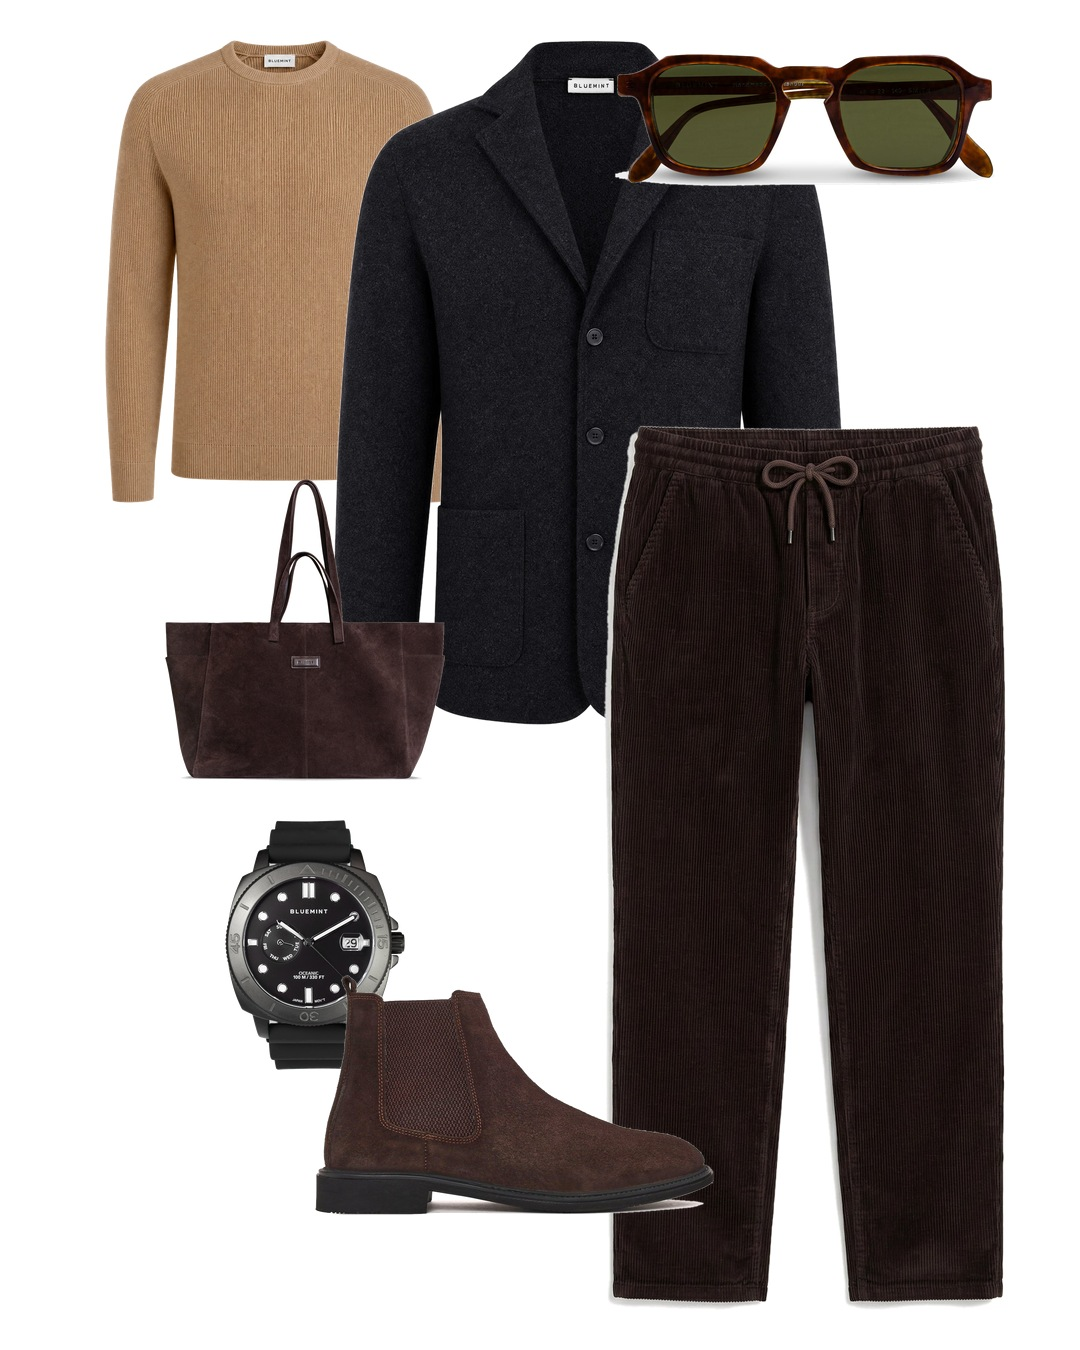
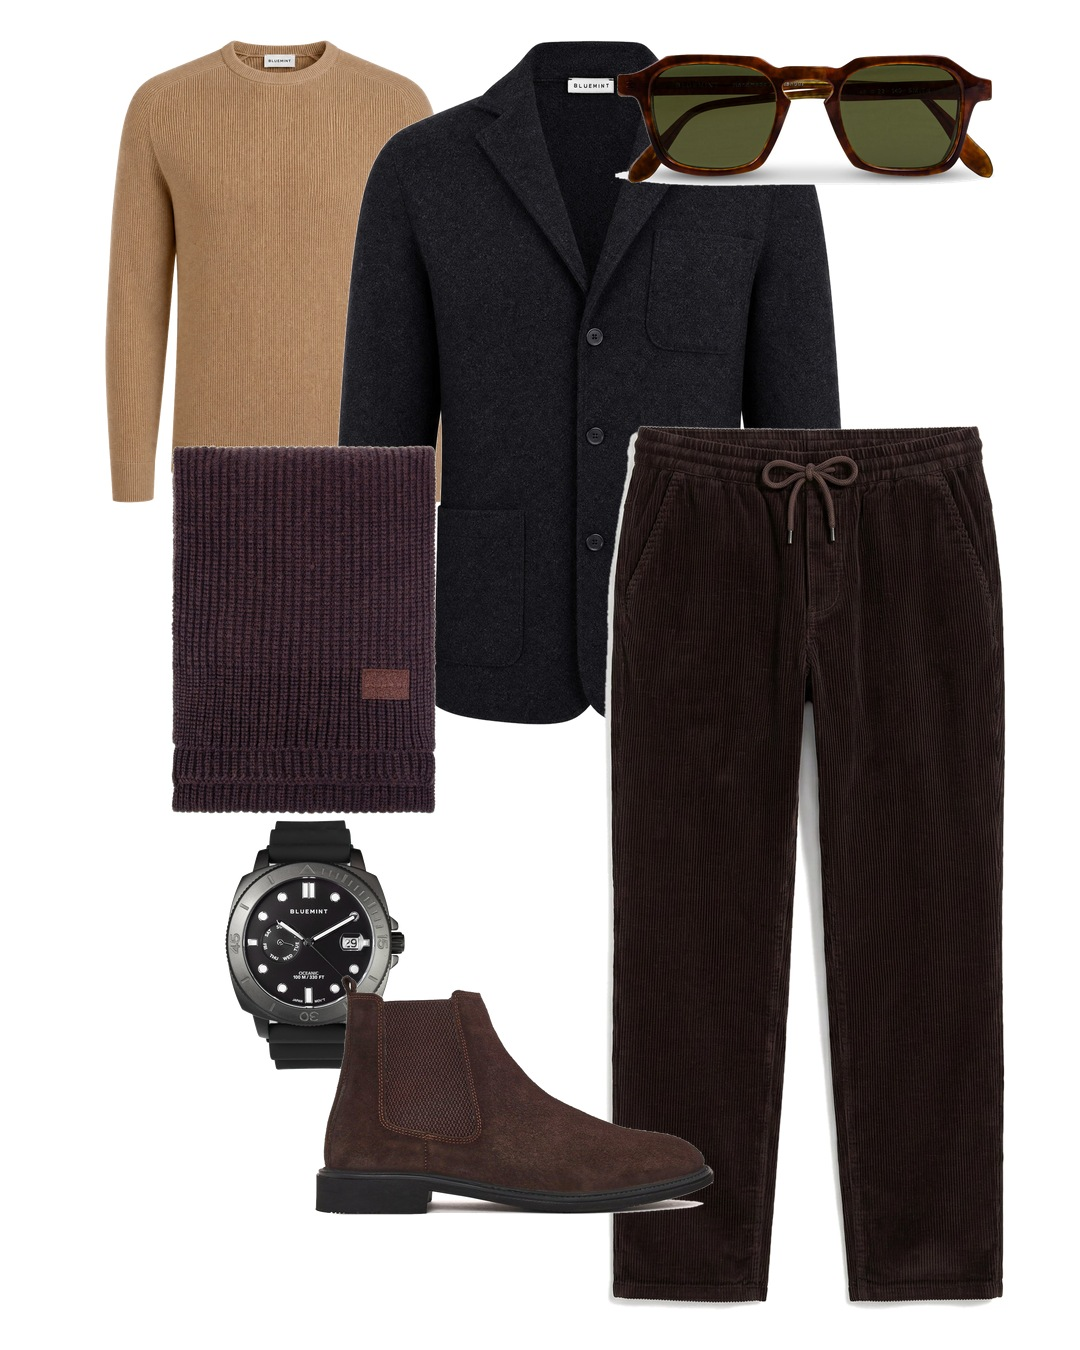
Men's look: swap tote for scarf
Claude-Session: https://claude.ai/code/session_017rYiNWXHBCHyhRSoaNmMyY

Changed region(s): [[0.1528, 0.3111, 0.4278, 0.6222]]

diff --git a/scripts/pinterest/desc.py b/scripts/pinterest/desc.py
@@ -1,11 +1,11 @@
 import json,subprocess,os,sys
 exec(open('collage2.py').read().rsplit("if __name__",1)[0])
 BR={G:'Bluemint',A:'Arzu Kaprol',D:'Derimod',Lv:'Lovy Atelier'}
-NM={'LANA':'LANA yün blazer, antrasit','REINE':'REINE yün triko, siyah','DORA':'DORA pileli pantolon, antrasit melanj','DACK':'DACK %100 yün ceket, antrasit','MIKE':'MIKE triko, camel','EMORY':'EMORY fitilli kadife pantolon, kahve','SOPHIA':'SOPHIA kruvaze yün palto, camel','SOFIA':'SOFIA süet tote çanta, kahve','JAVIER':'JAVIER güneş gözlüğü, kahve cam','SMITH':'SMITH güneş gözlüğü, kaplumbağa','IVES':'IVES güneş gözlüğü, altın çerçeve','BM WATCH OCEANIC':'BM Watch Oceanic 43 mm, siyah'}
+NM={'LANA':'LANA yün blazer, antrasit','REINE':'REINE yün triko, siyah','DORA':'DORA pileli pantolon, antrasit melanj','DACK':'DACK %100 yün ceket, antrasit','MIKE':'MIKE triko, camel','EMORY':'EMORY fitilli kadife pantolon, kahve','SOPHIA':'SOPHIA kruvaze yün palto, camel','RINO':'RINO yün atkı, koyu kahve','JAVIER':'JAVIER güneş gözlüğü, kahve cam','SMITH':'SMITH güneş gözlüğü, kaplumbağa','IVES':'IVES güneş gözlüğü, altın çerçeve','BM WATCH OCEANIC':'BM Watch Oceanic 43 mm, siyah'}
 TITLE={'gunduz':'Antrasit & Bitter · Kadın · Kasım gündüz','erkek':'Antrasit & Camel · Erkek · Hafta sonu','aksam':'Siyah & Camel · Kadın · Kasım akşamı'}
 YORUM={
 'gunduz':"Gri üstüne gri ama düz değil: blazerın yünü, pantolonun pilisi ve trikonun siyahı üç ayrı doku. Rengi kahve süet loafer ile deri çanta veriyor, altın sadece bileklikte. Toplantıdan akşam kahvesine üstünü değiştirmeden geçen bir kasım günü kombini.",
-'erkek':"Ceket yün, triko camel, pantolon fitilli kadife. Üç sıcak doku tek bir kahve paletinde buluşuyor. Süet chelsea ile süet tote aynı tonda; saat ve kaplumbağa gözlük hafta sonunu tamamlıyor.",
+'erkek':"Ceket yün, triko camel, pantolon fitilli kadife. Üç sıcak doku tek bir kahve paletinde buluşuyor. Boyunda koyu kahve örgü atkı, ayakta süet chelsea; dalgıç saat ve kaplumbağa gözlük hafta sonunu tamamlıyor.",
 'aksam':"Camel palto açılınca altından drapeli siyah bluz ve kalem etek çıkıyor. Kahve stiletto ince topuklu, portföy süet. Işık inci küpede ve zirkon bileklikte, altın çerçeve gözlük de akşam güneşi için.",
 }
 out='/home/user/Ouisecretvie.studio/pinterest/2026-11-23'

diff --git a/scripts/pinterest/collage2.py b/scripts/pinterest/collage2.py
@@ -13,7 +13,7 @@ LOOKS={
    'bag':P(D,'kadin-kahverengi-uzun-askili-klasik-kol-cantasi-ab590002sv-5637145360'),'watch':P(Lv,'ogi-bileklik'),
    'shoes':P(D,'kadin-kahverengi-tokali-suet-deri-maskulen-loafer-af180019ds-5637145360'),'glasses':P(G,'javier-brown-shade-gunes-gozlugu'),'earring':P(Lv,'tanura-i̇nci-kupe-kopya')},
  'erkek':{'top':P(G,'mike-camel-triko'),'outer':P(G,'dack-anthracite-melange-ceket'),'bottom':P(G,'emory-brown-pantolon'),
-   'bag':P(G,'sofia-brown-canta'),'watch':P(G,'bm-watch-oceanic-b79-001-43-mm-kol-saati'),
+   'bag':P(G,'rino-brown-atki'),'watch':P(G,'bm-watch-oceanic-b79-001-43-mm-kol-saati'),
    'shoes':P(D,'erkek-kahverengi-suet-deri-chelsea-bot-wm610001ds-5637145360'),'glasses':P(G,'smith-brown-turtle-shade-gunes-gozlugu')},
  'aksam':{'top':P(A,'beyaz-drapeli-kolsuz-bluz-copy'),'outer':P(G,'sophia-camel-dis-giyim'),'bottom':P(A,'siyah-etek-2'),
    'bag':P(D,'kadin-kahverengi-zincir-askili-suet-portfoy-canta-wb570007ss-5637145360'),'watch':P(Lv,'tanur-bileklik'),
